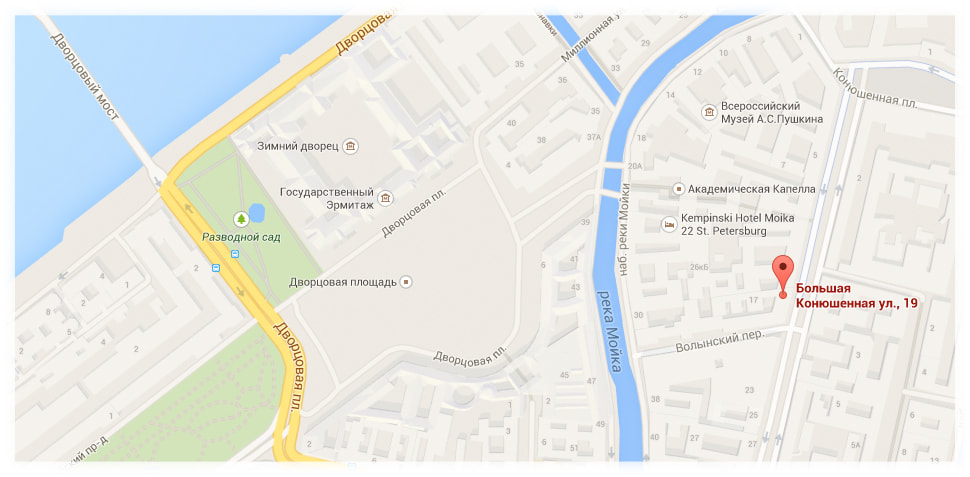
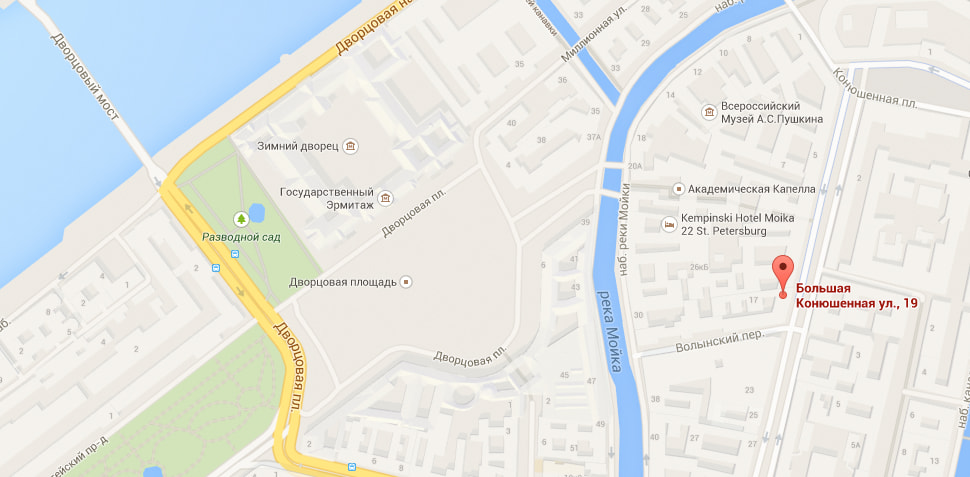
Оформили попап карта

diff --git a/index.html b/index.html
@@ -309,10 +309,12 @@
       </div>
     </footer>
     <!-- Попап карты -->
-    <div class="popup">
+    <div class="popup-map popup">
+      <div class="map-inner">
       <h3 class="visually-hidden">Как к нам добраться</h3>
-      <img src="img/map.jpg" alt="Полная карта с располложением офиса на улице Большая Конюшенная, дом 19">
-      <button type="button">Закрыть карту</button>
+      <img src="img/map.jpg" width="970px" height="477px" alt="Полная карта с располложением офиса на улице Большая Конюшенная, дом 19">
+      <button type="button" aria-label="Закрыть карту"></button>
+      </div>
     </div>
     
     <!-- Попап формы напишите нам -->

diff --git a/css/style.css b/css/style.css
@@ -1426,6 +1426,32 @@ legend {
 
 /* Pop-ups */
 
+.popup-map {
+    position: absolute;
+    border-top: solid 7px var(--basic-red);
+    right: 471px;
+    top: 2335px;
+    width: 970px;
+    height: 477px;
+    box-shadow: 0px 4px 20px rgba(0, 0, 0, 0.15);
+}
+
+.map-inner {
+    position: relative;
+}
+
+.popup-map button {
+    position: absolute;
+    top: 17px;
+    right: 10px;
+    border: none;
+    background-image: url(../img/icon-close.svg);
+    background-color: transparent;
+    width: 21px;
+    height: 21px;
+    background-repeat: no-repeat;
+}
+
 .popup {
     display: none;
 }
